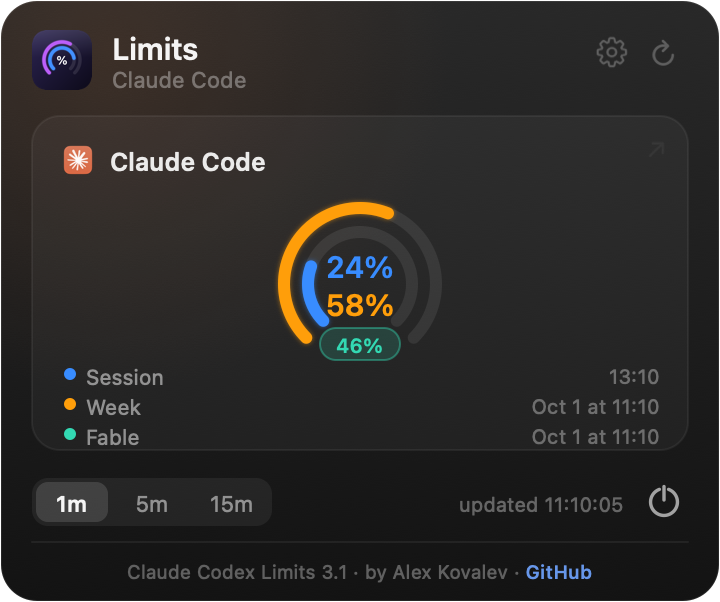
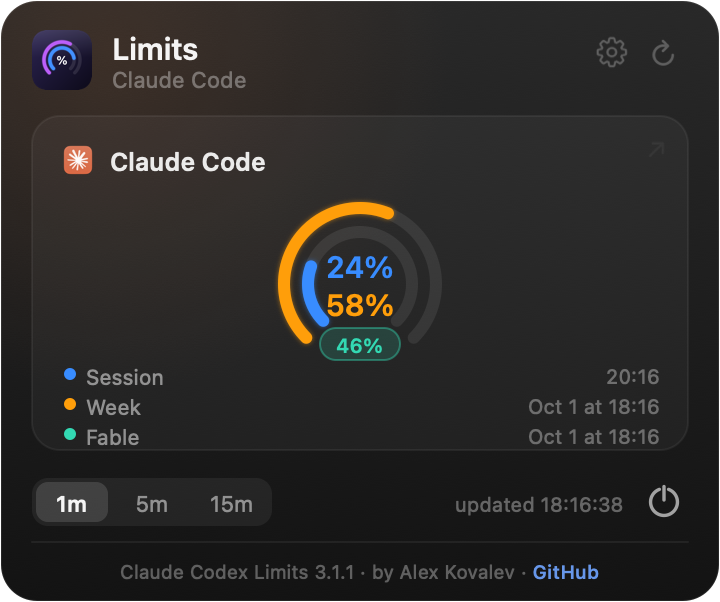
v3.1.1 — bring the author · GitHub credit line back to the Advanced view
The Advanced layout dropped the credit line from the Simple view, and with
it the only link to the repository. It's back under the footer (divider +
the same line), and advancedHeight() grows by ADV_CREDIT_H.

diff --git a/Sources/LimitsMonitor.swift b/Sources/LimitsMonitor.swift
@@ -1910,7 +1910,7 @@ func panelMainHeight(_ claude: LimitData, _ codex: LimitData) -> CGFloat {
     PANEL_H + scopedRowExtra(claude, codex)
 }
 enum PanelMode { case main, settings, sounds, whatsnew, claudeFix }
-let APP_VERSION = "3.1"
+let APP_VERSION = "3.1.1"
 let APP_AUTHOR = "Alex Kovalev"
 let REPO_URL = "https://github.com/ArrivaRUS/claude-codex-limits"
 let CLAUDE_INSTALL_CMD = "curl -fsSL https://claude.ai/install.sh | bash"
@@ -2412,8 +2412,11 @@ func advancedHeight(_ claude: LimitData, _ codex: LimitData) -> CGFloat {
     for c in cards { h += 5 + c.height }
     if cards.count == 1 { h += 5 + ADV_PLACEHOLDER }
     h += 5 + advHistoryHeight(cards)
-    return h
+    return h + ADV_CREDIT_H
 }
+/// Credit line under the footer (author · version · GitHub), same as in the Simple view —
+/// the first Advanced build dropped it and the repo link went missing (Alex, 2026-09-27).
+let ADV_CREDIT_H: CGFloat = 24
 
 /// Main-panel height for whichever view is on.
 func mainPanelHeight(_ claude: LimitData, _ codex: LimitData) -> CGFloat {
@@ -2872,7 +2875,7 @@ func drawAdvanced(_ ctx: CGContext, size: CGSize, claude: LimitData, codex: Limi
     y += hh + 6
 
     // ---- footer ----
-    let footTop = H - 35
+    let footTop = H - 35 - ADV_CREDIT_H
     let segs: [(String, Double)] = [(tr("1м", "1m"), 60), (tr("5м", "5m"), 300), (tr("15м", "15m"), 900)]
     let sw = segs.map { width(attr($0.0, 12, .semibold, textHi)) + 20 }
     let segTotal = sw.reduce(0, +) + 4
@@ -2891,6 +2894,19 @@ func drawAdvanced(_ ctx: CGContext, size: CGSize, claude: LimitData, codex: Limi
     hits.append(Hit(id: "quit", rect: pwr.insetBy(dx: -6, dy: -6)))
     if let u = updated {
         textC(attr(tr("обновлено ", "updated ") + clockText(u), 11, .regular, textMid), x: 315, topY: footTop + 3, h: 18, align: 2)
+    }
+    // credit line: author · version · GitHub
+    do {
+        let divTop = footTop + 22 + 8
+        ctx.setStrokeColor(cg(gray(1, 0.06))); ctx.setLineWidth(1)
+        ctx.beginPath(); ctx.move(to: CGPoint(x: ADV_CX, y: H - divTop)); ctx.addLine(to: CGPoint(x: ADV_CX + ADV_CW, y: H - divTop)); ctx.strokePath()
+        let pre = attr("Claude Codex Limits \(APP_VERSION) · by \(APP_AUTHOR) · ", 9.5, .regular, gray(1, 0.32))
+        let link = attr("GitHub", 9.5, .semibold, ADV_LINK)
+        let preW = width(pre), linkW = width(link)
+        let cx = (W - preW - linkW) / 2, ct = divTop + 7
+        textC(pre, x: cx, topY: ct, h: 12)
+        textC(link, x: cx + preW, topY: ct, h: 12)
+        hits.append(Hit(id: "open:\(REPO_URL)", rect: rectTL(cx + preW - 3, ct - 2, linkW + 6, 16)))
     }
     return hits
 }

diff --git a/README.md b/README.md
@@ -3,7 +3,7 @@
 **English** · [Русский](README.ru.md)
 
 <p align="center">
-  <img src="docs/banner.png?v=310" alt="Claude Codex Limits — macOS menu bar usage limits" width="820">
+  <img src="docs/banner.png?v=311" alt="Claude Codex Limits — macOS menu bar usage limits" width="820">
 </p>
 
 A tiny macOS menu-bar app that shows how much of your **Claude Code** and **Codex**
@@ -14,9 +14,9 @@ window), with the product's icon to its left — and you decide which two number
 Click the tray icon for a detailed popover.
 
 <p align="center">
-  <img src="docs/menubar-dark.png?v=310" width="180" alt="Menu bar (dark)">
+  <img src="docs/menubar-dark.png?v=311" width="180" alt="Menu bar (dark)">
   &nbsp;&nbsp;
-  <img src="docs/panel-en.png?v=310" width="320" alt="Popover">
+  <img src="docs/panel-en.png?v=311" width="320" alt="Popover">
 </p>
 
 ## Features
@@ -42,19 +42,19 @@ Click the tray icon for a detailed popover.
 - **Launch at login** — a toggle right in Settings; no Dock icon, no dependencies beyond what macOS already ships.
 
 <p align="center">
-  <img src="docs/menubar-single.png?v=310" width="140" alt="Single product (menu bar)">
+  <img src="docs/menubar-single.png?v=311" width="140" alt="Single product (menu bar)">
   &nbsp;&nbsp;
-  <img src="docs/panel-single-en.png?v=310" width="300" alt="Single product (popover)">
+  <img src="docs/panel-single-en.png?v=311" width="300" alt="Single product (popover)">
 </p>
 <p align="center"><sub>With only one subscription set up, the tray and popover collapse to a single row / card.</sub></p>
 
-<p align="center"><img src="docs/advanced-en.png?v=310" width="320" alt="Advanced view"></p>
+<p align="center"><img src="docs/advanced-en.png?v=311" width="320" alt="Advanced view"></p>
 <p align="center"><sub>Advanced view: a pace line and a plain verdict per window, 7 days stacked by model, a 35‑day calendar, and what a day costs on the subscription vs at API prices.</sub></p>
 
-<p align="center"><img src="docs/settings-en.png?v=310" width="250" alt="Settings screen"></p>
+<p align="center"><img src="docs/settings-en.png?v=311" width="250" alt="Settings screen"></p>
 <p align="center"><sub>Settings (⚙): interface language · panel view · launch at login · which two numbers the menu bar shows · subscriptions and GitHub sync (Advanced) · sounds on their own screen · built‑in updates.</sub></p>
 
-<p align="center"><img src="docs/whatsnew-en.png?v=310" width="320" alt="What's new screen"></p>
+<p align="center"><img src="docs/whatsnew-en.png?v=311" width="320" alt="What's new screen"></p>
 <p align="center"><sub>“What’s new”: release notes for every version you skipped, then update straight from there.</sub></p>
 
 ## How it works
@@ -105,7 +105,7 @@ you turn it on in Settings.
 
 ### 2. From the .dmg
 
-1. Download `ClaudeCodexLimits-3.1.dmg` from the [Releases](../../releases) page.
+1. Download `ClaudeCodexLimits-3.1.1.dmg` from the [Releases](../../releases) page.
 2. Open it and drag **Claude Codex Limits** into **Applications**.
 3. Launch it. The build isn't notarized, so on **macOS Sequoia / Tahoe** the first
    launch is blocked. Do this once:
@@ -141,7 +141,7 @@ Requirements: macOS 13+, the Xcode command‑line tools (`swiftc`). No packages 
 ## Build a release
 
 ```bash
-./scripts/make-dmg.sh     # → dist/ClaudeCodexLimits-3.1.dmg
+./scripts/make-dmg.sh     # → dist/ClaudeCodexLimits-3.1.1.dmg
 ```
 
 ## Project layout
